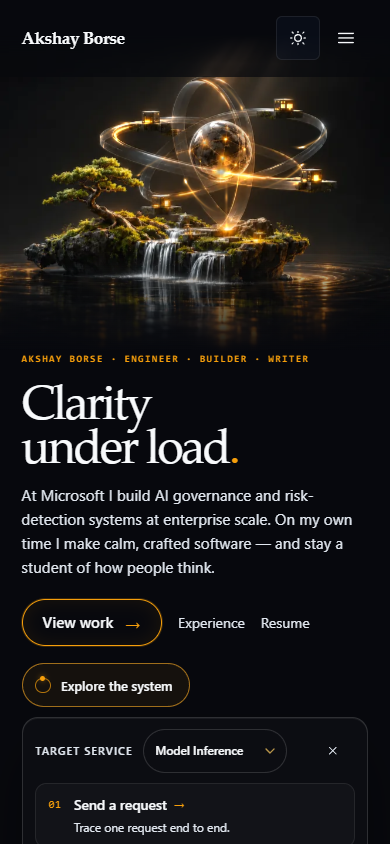
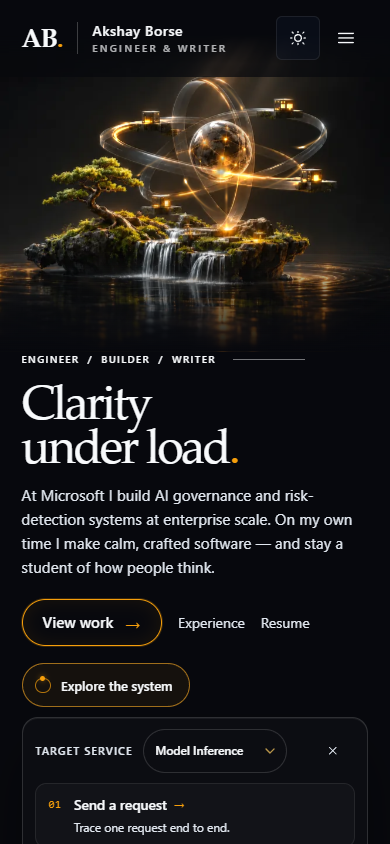
Hero milestone 2: header and eyebrow match the approved reference
Monogram brand with role line, nav centred on the viewport (md:grid so
Tailwind's flex utility no longer overrides the grid), profile icons and
a "Get in touch" pill, and the "Engineer / Builder / Writer" eyebrow with
its trailing rule. e2e covers links and centring at 1024/1280/1672.

Changed region(s): [[0.0615, 0.4005, 0.6462, 0.4313], [0.0615, 0.0308, 0.5846, 0.0616], [0.6769, 0.4005, 0.8, 0.4313]]

diff --git a/src/layout/Navbar.tsx b/src/layout/Navbar.tsx
@@ -3,10 +3,31 @@ import { NavLink, useLocation } from "react-router-dom";
 import { ThemeToggle } from "@/components/ThemeToggle";
 import { navItems, site } from "@/data";
 
+const ROLE = "Engineer & Writer";
+
+/** Brand icons, 24px grid, drawn in currentColor. */
+const SOCIAL_ICONS = [
+  {
+    label: "GitHub",
+    href: site.social.github,
+    path: "M12 2a10 10 0 0 0-3.16 19.49c.5.09.68-.22.68-.48v-1.7c-2.78.6-3.37-1.34-3.37-1.34-.45-1.16-1.11-1.47-1.11-1.47-.91-.62.07-.6.07-.6 1 .07 1.53 1.03 1.53 1.03.89 1.53 2.34 1.09 2.91.83.09-.65.35-1.09.63-1.34-2.22-.25-4.55-1.11-4.55-4.94 0-1.09.39-1.98 1.03-2.68-.1-.25-.45-1.27.1-2.65 0 0 .84-.27 2.75 1.02a9.56 9.56 0 0 1 5 0c1.91-1.29 2.75-1.02 2.75-1.02.55 1.38.2 2.4.1 2.65.64.7 1.03 1.59 1.03 2.68 0 3.84-2.34 4.69-4.57 4.93.36.31.68.92.68 1.85v2.74c0 .27.18.58.69.48A10 10 0 0 0 12 2Z",
+  },
+  {
+    label: "LinkedIn",
+    href: site.social.linkedin,
+    path: "M6.94 8.5H3.56V20h3.38V8.5ZM5.25 3a1.97 1.97 0 1 0 0 3.94 1.97 1.97 0 0 0 0-3.94ZM20.44 13.4c0-3.1-1.66-4.54-3.87-4.54a3.35 3.35 0 0 0-3.03 1.67V8.5h-3.37V20h3.37v-5.7c0-1.5.29-2.95 2.14-2.95 1.83 0 1.85 1.71 1.85 3.05V20h3.38l-.47-6.6Z",
+  },
+  {
+    label: "Medium",
+    href: site.social.medium,
+    path: "M13.54 12a6.27 6.27 0 1 1-12.54 0 6.27 6.27 0 0 1 12.54 0Zm6.88 0c0 3.24-1.4 5.87-3.13 5.87S14.15 15.24 14.15 12s1.4-5.87 3.14-5.87 3.13 2.63 3.13 5.87ZM23 12c0 2.9-.49 5.26-1.1 5.26-.6 0-1.1-2.36-1.1-5.26s.5-5.26 1.1-5.26c.61 0 1.1 2.36 1.1 5.26Z",
+  },
+] as const;
+
 function linkClass(isActive: boolean) {
   return [
     "nav-item py-2 text-[0.8125rem] tracking-[0.03em]",
-    isActive ? "nav-item--active" : "font-normal text-[var(--color-ink-muted)]",
+    isActive ? "nav-item--active" : "nav-item--idle font-normal",
   ].join(" ");
 }
 
@@ -19,16 +40,23 @@ export function Navbar() {
   return (
     <header className={`site-header pointer-events-none${isHome ? " site-header--home" : ""}`}>
       <div
-        className={`pointer-events-auto mx-auto flex items-center justify-between gap-4 py-4 ${
+        className={`site-header__bar pointer-events-auto mx-auto flex items-center md:grid justify-between gap-4 py-4 ${
           isHome ? "site-header__bar--hero" : "max-w-6xl px-4 sm:px-6 lg:px-10"
         }`}
       >
         <NavLink
           to="/"
-          className="font-display text-[1.0625rem] font-semibold tracking-[-0.02em] text-[var(--color-ink)] hover:text-[var(--color-accent)] transition-colors duration-200 focus-visible:ring-2 focus-visible:ring-[var(--color-accent)] rounded"
+          className="site-brand rounded focus-visible:ring-2 focus-visible:ring-[var(--color-accent)]"
+          aria-label={`${site.name}, home`}
           onClick={() => setOpen(false)}
         >
-          {site.name}
+          <span className="site-brand__mark" aria-hidden="true">
+            AB<span className="site-brand__dot">.</span>
+          </span>
+          <span className="site-brand__text" aria-hidden="true">
+            <span className="site-brand__name">{site.name}</span>
+            <span className="site-brand__role">{ROLE}</span>
+          </span>
         </NavLink>
 
         <nav className="hidden items-center gap-1 md:flex lg:gap-0.5" aria-label="Primary">
@@ -44,8 +72,34 @@ export function Navbar() {
               {label}
             </NavLink>
           ))}
-          <ThemeToggle className="ml-1" />
         </nav>
+
+        <div className="site-header__tools hidden items-center gap-1 md:flex">
+          <ul className="site-socials hidden items-center xl:flex" aria-label="Profiles">
+            {SOCIAL_ICONS.map(({ label, href, path }) => (
+              <li key={label}>
+                <a
+                  href={href}
+                  target="_blank"
+                  rel="noopener noreferrer"
+                  className="site-social rounded focus-visible:ring-2 focus-visible:ring-[var(--color-accent)]"
+                  aria-label={`${label} (opens in a new tab)`}
+                >
+                  <svg width="18" height="18" viewBox="0 0 24 24" aria-hidden="true">
+                    <path d={path} fill="currentColor" />
+                  </svg>
+                </a>
+              </li>
+            ))}
+          </ul>
+          <NavLink
+            to="/about#contact"
+            className="site-header__cta hidden lg:inline-flex focus-visible:ring-2 focus-visible:ring-[var(--color-accent)]"
+          >
+            Get in touch <span aria-hidden="true">↗</span>
+          </NavLink>
+          <ThemeToggle className="ml-1" />
+        </div>
 
         <div className="flex items-center gap-1 md:hidden">
           <ThemeToggle />

diff --git a/src/styles/index.css b/src/styles/index.css
@@ -249,6 +249,109 @@
     }
   }
 
+  /* Brand left, primary nav centred, profiles + contact + theme right. */
+  @media (min-width: 768px) {
+    .site-header__bar {
+      display: grid;
+      grid-template-columns: minmax(0, 1fr) auto minmax(0, 1fr);
+    }
+    .site-header__tools {
+      justify-self: end;
+    }
+  }
+
+  .site-brand {
+    display: inline-flex;
+    align-items: center;
+    gap: 0.9rem;
+    color: var(--color-ink);
+  }
+
+  .site-brand__mark {
+    font-family: var(--font-display);
+    font-size: 1.6rem;
+    font-weight: 600;
+    letter-spacing: -0.03em;
+    line-height: 1;
+  }
+
+  .site-brand__dot {
+    color: var(--color-gold);
+  }
+
+  .site-brand__text {
+    display: flex;
+    flex-direction: column;
+    gap: 0.2rem;
+    padding-left: 0.9rem;
+    border-left: 1px solid color-mix(in srgb, var(--color-ink) 22%, transparent);
+    line-height: 1.15;
+  }
+
+  /* Between tablet and laptop the centred nav needs the room. */
+  @media (min-width: 768px) and (max-width: 1023px) {
+    .site-brand__text {
+      display: none;
+    }
+  }
+
+  .site-brand__name {
+    font-size: 0.9rem;
+    font-weight: 600;
+    letter-spacing: 0.02em;
+  }
+
+  .site-brand__role {
+    color: color-mix(in srgb, var(--color-ink) 70%, transparent);
+    font-size: 0.62rem;
+    font-weight: 500;
+    letter-spacing: 0.24em;
+    text-transform: uppercase;
+  }
+
+  .site-socials {
+    gap: 0.15rem;
+    margin: 0 0.4rem 0 0;
+    padding: 0 0.6rem 0 0;
+    border-right: 1px solid var(--color-border);
+    list-style: none;
+  }
+
+  .site-social {
+    display: inline-flex;
+    width: 2.25rem;
+    height: 2.25rem;
+    align-items: center;
+    justify-content: center;
+    color: color-mix(in srgb, var(--color-ink) 82%, transparent);
+    transition: color var(--duration-micro) var(--ease-out-luxe);
+  }
+
+  .site-social:hover {
+    color: var(--color-gold);
+  }
+
+  .site-header__cta {
+    align-items: center;
+    gap: 0.4rem;
+    min-height: 2.5rem;
+    padding: 0 1.1rem;
+    border: 1px solid color-mix(in srgb, var(--color-gold) 75%, transparent);
+    border-radius: 999px;
+    color: var(--color-ink);
+    font-size: 0.8125rem;
+    font-weight: 500;
+    white-space: nowrap;
+    transition:
+      background-color var(--duration-micro) var(--ease-out-luxe),
+      box-shadow var(--duration-micro) var(--ease-out-luxe);
+  }
+
+  .site-header__cta:hover {
+    background: color-mix(in srgb, var(--color-gold) 12%, transparent);
+    box-shadow: 0 0 18px color-mix(in srgb, var(--color-gold) 28%, transparent);
+  }
+
   .site-header__panel {
     background-color: var(--color-chrome-bg);
     backdrop-filter: blur(16px);
@@ -558,6 +661,15 @@
         transparent
       );
     }
+  }
+
+  .nav-item--idle {
+    color: color-mix(in srgb, var(--color-ink) 78%, transparent);
+  }
+
+  /* On the hero the active marker takes the scene's gold instead of the site accent. */
+  .site-header--home .nav-item--active::after {
+    background: var(--color-gold);
   }
 
   .nav-item--active {

diff --git a/tests/e2e/header.spec.ts b/tests/e2e/header.spec.ts
@@ -1,0 +1,42 @@
+import { expect, test } from "@playwright/test";
+
+test.describe("site header", () => {
+  test("monogram goes home and the contact pill goes to the contact section", async ({ page }) => {
+    await page.setViewportSize({ width: 1440, height: 900 });
+    await page.goto("/projects");
+    const header = page.locator("header");
+    await header.getByRole("link", { name: /Akshay Borse, home/ }).click();
+    await expect(page).toHaveURL(/\/$/);
+    await header.getByRole("link", { name: /Get in touch/ }).click();
+    await expect(page).toHaveURL(/\/about#contact$/);
+  });
+
+  test("profile links point at real profiles and open in a new tab", async ({ page }) => {
+    await page.setViewportSize({ width: 1440, height: 900 });
+    await page.goto("/");
+    const links = page.getByRole("list", { name: "Profiles" }).getByRole("link");
+    await expect(links).toHaveCount(3);
+    for (const link of await links.all()) {
+      await expect(link).toHaveAttribute("href", /^https:\/\//);
+      await expect(link).toHaveAttribute("target", "_blank");
+      await expect(link).toHaveAttribute("rel", /noopener/);
+      await expect(link).toHaveAttribute("aria-label", /opens in a new tab/);
+    }
+  });
+
+  for (const width of [1024, 1280, 1672]) {
+    test(`nav is centred and nothing overflows at ${width}px`, async ({ page }) => {
+      await page.setViewportSize({ width, height: 900 });
+      await page.goto("/");
+      const nav = page.locator("header nav").first();
+      const box = await nav.boundingBox();
+      expect(box).not.toBeNull();
+      const centre = box!.x + box!.width / 2;
+      expect(Math.abs(centre - width / 2)).toBeLessThan(24);
+      const overflow = await page.evaluate(
+        () => document.documentElement.scrollWidth - window.innerWidth
+      );
+      expect(overflow).toBeLessThanOrEqual(0);
+    });
+  }
+});

diff --git a/src/components/hero/HeroSection.tsx b/src/components/hero/HeroSection.tsx
@@ -303,7 +303,9 @@ export function HeroSection({ proofPoints }: { proofPoints: HeroProofPoint[] }) 
       )}
 
       <div className="hero-copy">
-        <p className="hero-eyebrow">Akshay Borse · Engineer · Builder · Writer</p>
+        <p className="hero-eyebrow">
+          Engineer&nbsp;&nbsp;/&nbsp;&nbsp;Builder&nbsp;&nbsp;/&nbsp;&nbsp;Writer
+        </p>
         <h1 id="hero-heading" className="hero-heading">
           <span className="hero-heading-line">{words[0]}</span>{" "}
           <span className="hero-heading-line">

diff --git a/src/components/hero/hero.css b/src/components/hero/hero.css
@@ -110,6 +110,24 @@
   text-transform: uppercase;
 }
 
+/* Reference: quiet, wide-tracked ink with a trailing hairline, not a gold code label. */
+.hero-eyebrow {
+  display: flex;
+  align-items: center;
+  gap: 1.1rem;
+  color: var(--color-ink);
+  font-family: inherit;
+  font-size: 0.74rem;
+  letter-spacing: 0.32em;
+}
+
+.hero-eyebrow::after {
+  content: "";
+  width: 4.5rem;
+  height: 1px;
+  background: color-mix(in srgb, var(--color-ink) 45%, transparent);
+}
+
 .hero-heading {
   margin: 0;
   color: var(--color-ink);

diff --git a/docs/hero/HERO-VISUAL-QA.md b/docs/hero/HERO-VISUAL-QA.md
@@ -40,3 +40,17 @@ The default renderer is now the **art plate**: a generated, text-free illustrati
 | 6 | Hard seam between the hero and the next section | Fixed: a bottom fade into the page background, in both themes | manual seam captures |
 
 Owner decisions (2026-11-08): (a) Keep the art plate plus live layers instead of real PBR and camera choreography. (b) Water and shader upgrades, which need the arsenal-scene source, are a follow-up task for Codex.
+
+## Milestone 2 fidelity log (header and eyebrow against the reference)
+
+| # | Gap against the reference | Status | Evidence |
+| --- | --- | --- | --- |
+| 1 | Plain name in place of the "AB." monogram, divider and role line | Fixed: the monogram has a gold dot, then a divider, then the name and "Engineer & Writer". The text drops out between 768 and 1023 px | `desktop-idle.png`, `light-theme.png`, `tablet-834x1112.png` |
+| 2 | Nav was left-packed instead of centred | Fixed: a three-column header grid. Tailwind's `flex` had silently overridden the grid, so `md:grid` is now on the element | e2e "nav is centred and nothing overflows" at 1024, 1280 and 1672 px (fails before the fix) |
+| 3 | No profile icons or contact pill on the right | Fixed: GitHub, LinkedIn and Medium icons (from `site.social`, open in a new tab, labelled), a gold outline "Get in touch" pill to `/about#contact`, and the theme toggle | e2e "profile links…" and "monogram goes home…" |
+| 4 | Eyebrow repeated the name | Fixed: "Engineer / Builder / Writer" with a trailing rule, as in the reference | `desktop-idle.png` |
+
+Re-checked against `references/hero-composition.png`: the proof strip (icon, value, caption, dividers, short top rule) and the scroll cue (circle with an arrow, gentle pulse) already match. The reference has one primary pill and no secondary links; our extra text links (Experience, Resume) and the outlined "Explore the system" pill are kept because they are existing functionality. No open fidelity gaps remain in the header or hero copy column.
+
+Owner question: the reference shows "Book a Call", but the site has no booking link. The pill says "Get in touch" and goes to the existing contact section until a booking URL exists.
+
